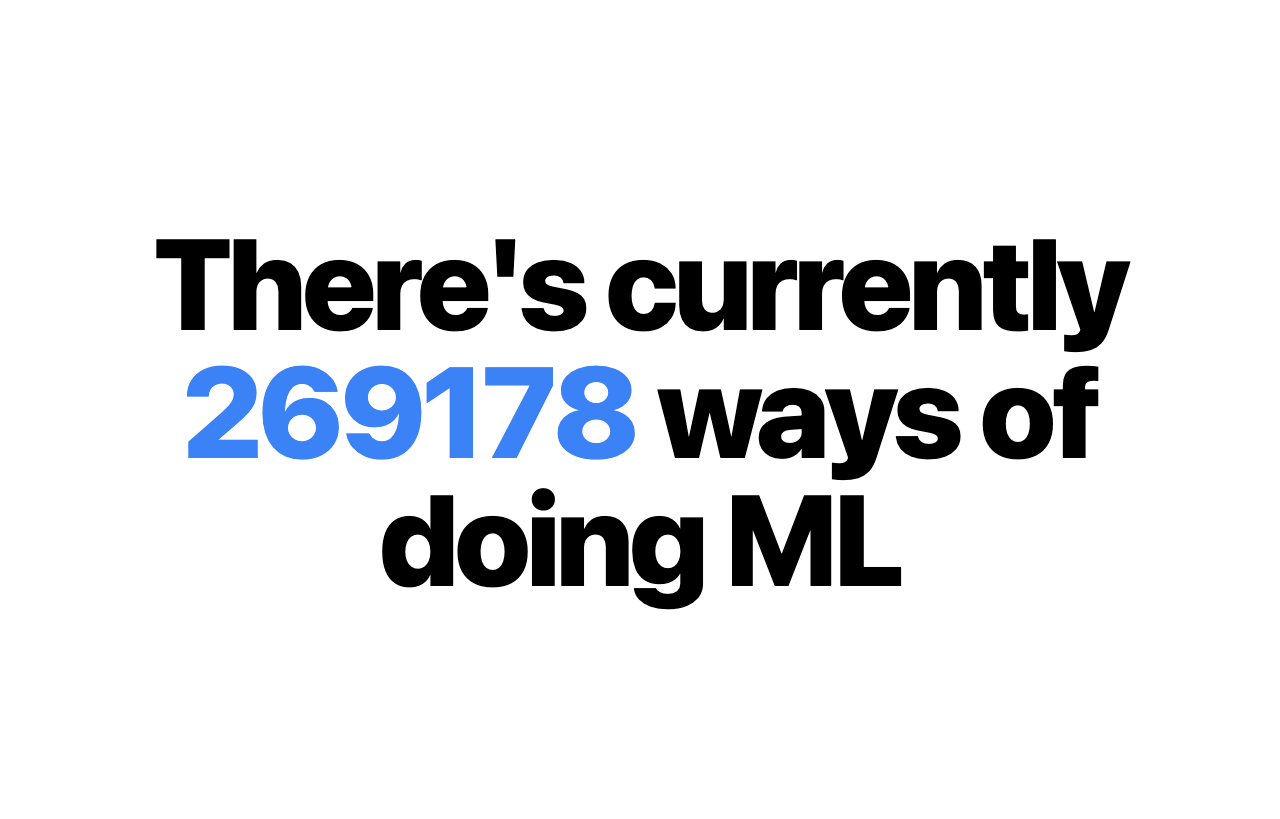
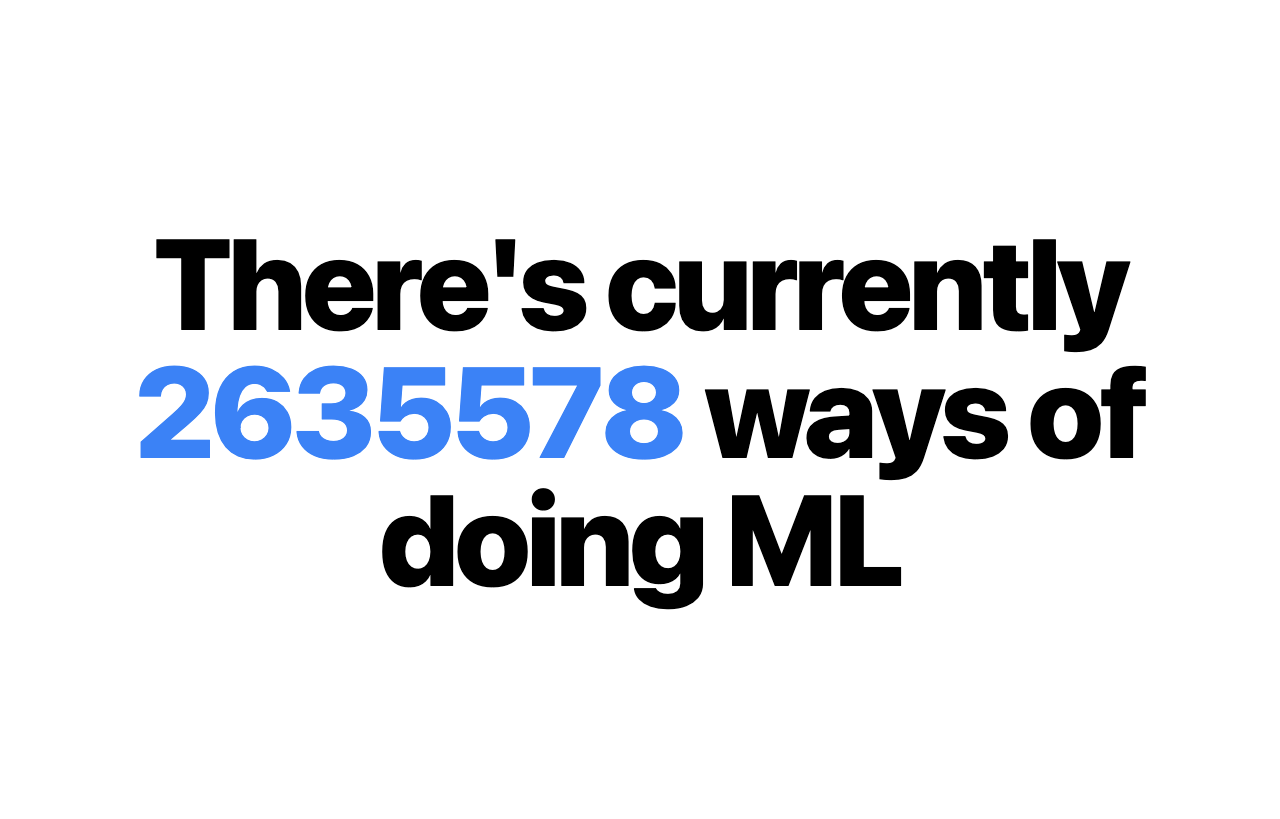
add dimension 0

Changed region(s): [[0.0938, 0.4274, 0.9062, 0.6105]]

diff --git a/pages/index.js b/pages/index.js
@@ -9,13 +9,16 @@ export default function Home() {
     data.filter((x) => x[stages[0]] !== "").length *
     data.filter((x) => x[stages[1]] !== "").length *
     data.filter((x) => x[stages[2]] !== "").length *
-    data.filter((x) => x[stages[3]] !== "").length;
+    data.filter((x) => x[stages[3]] !== "").length *
+    data.filter((x) => x[stages[4]] !== "").length;
   const circles = {
     "Highly Developed": <span style={{ color: "#8700FF" }}>⬤</span>,
     "Moderately Developed": <span style={{ color: "#D65CFF" }}>⬤</span>,
     "Still Developing": <span style={{ color: "#F8D3FE" }}>⬤</span>,
     "Lightly Developed": <span style={{ color: "#E0E5EB" }}>⬤</span>,
   };
+
+  console.log(data[0], stages[1], data[0][stages[0]])
 
   return (
     <div>
@@ -44,7 +47,7 @@ export default function Home() {
         </h1>
       </main>
 
-      <article className="max-w-4xl mx-4 sm:mx-auto">
+      <article className="max-w-5xl mx-4 sm:mx-auto">
         <h2 className="text-2xl font-bold">Machine Learning Lifecycle</h2>
 
         <ul className="my-4">
@@ -63,6 +66,7 @@ export default function Home() {
         </ul>
 
         <ul className="my-4 text-sm text-right text-gray-500 sm:hidden">
+          <li className="block">0. Resource Management, DL Enablement</li>
           <li className="block">1. Data Gathering, Transformation</li>
           <li className="block">
             2. Experimenting, Training, Tuning, Testing
@@ -78,26 +82,32 @@ export default function Home() {
         <table className="mt-12 table-fixed">
           <thead>
             <tr className="text-normal">
-              <th className="w-1/5 text-left"></th>
-              <th className="w-1/5">
+              <th className="w-1/6 text-left"></th>
+              <th className="w-1/6">
+                <span className="hidden sm:block">
+                  0. Resource Management, DL Enablement
+                </span>
+                <span className="block sm:hidden">0.</span>
+              </th>
+              <th className="w-1/6">
                 <span className="hidden sm:block">
                   1. Data Gathering, Transformation
                 </span>
                 <span className="block sm:hidden">1.</span>
               </th>
-              <th className="w-1/5">
+              <th className="w-1/6">
                 <span className="hidden sm:block">
                   2. Experimenting, Training, Tuning, Testing
                 </span>
                 <span className="block sm:hidden">2.</span>
               </th>
-              <th className="w-1/5">
+              <th className="w-1/6">
                 <span className="hidden sm:block">
                   3. Productionization, Deployment, Inference
                 </span>
                 <span className="block sm:hidden">3.</span>
               </th>
-              <th className="w-1/5">
+              <th className="w-1/6">
                 <span className="hidden sm:block">
                   4. Monitoring, Auditing, Management, Retraining
                 </span>
@@ -117,10 +127,17 @@ export default function Home() {
                       {x.Name}
                     </a>
                   </td>
-                  <td className="relative">
+                  <td>
                     {
                       circles[
-                        x["Life Cycle - Data Gathering and Transformation"]
+                        x[stages[0]]
+                      ]
+                    }
+                  </td>
+                  <td>
+                    {
+                      circles[
+                        x[stages[1]]
                       ]
                     }
                   </td>
@@ -128,7 +145,7 @@ export default function Home() {
                     {
                       circles[
                         x[
-                          "Life Cycle - Experimenting, Training, Tuning, Testing"
+                          stages[2]
                         ]
                       ]
                     }
@@ -137,7 +154,7 @@ export default function Home() {
                     {
                       circles[
                         x[
-                          "Life Cycle - Monitoring, Auditing, Management, Retraining"
+                          stages[3]
                         ]
                       ]
                     }
@@ -146,7 +163,7 @@ export default function Home() {
                     {
                       circles[
                         x[
-                          "Life Cycle - Productionization, Deployment, Inference"
+                          stages[4]
                         ]
                       ]
                     }

diff --git a/README.md b/README.md
@@ -2,7 +2,7 @@
 
 ## Install dependencies
 
-`npm i`
+  `npm i`
 
 ## Update data
 
